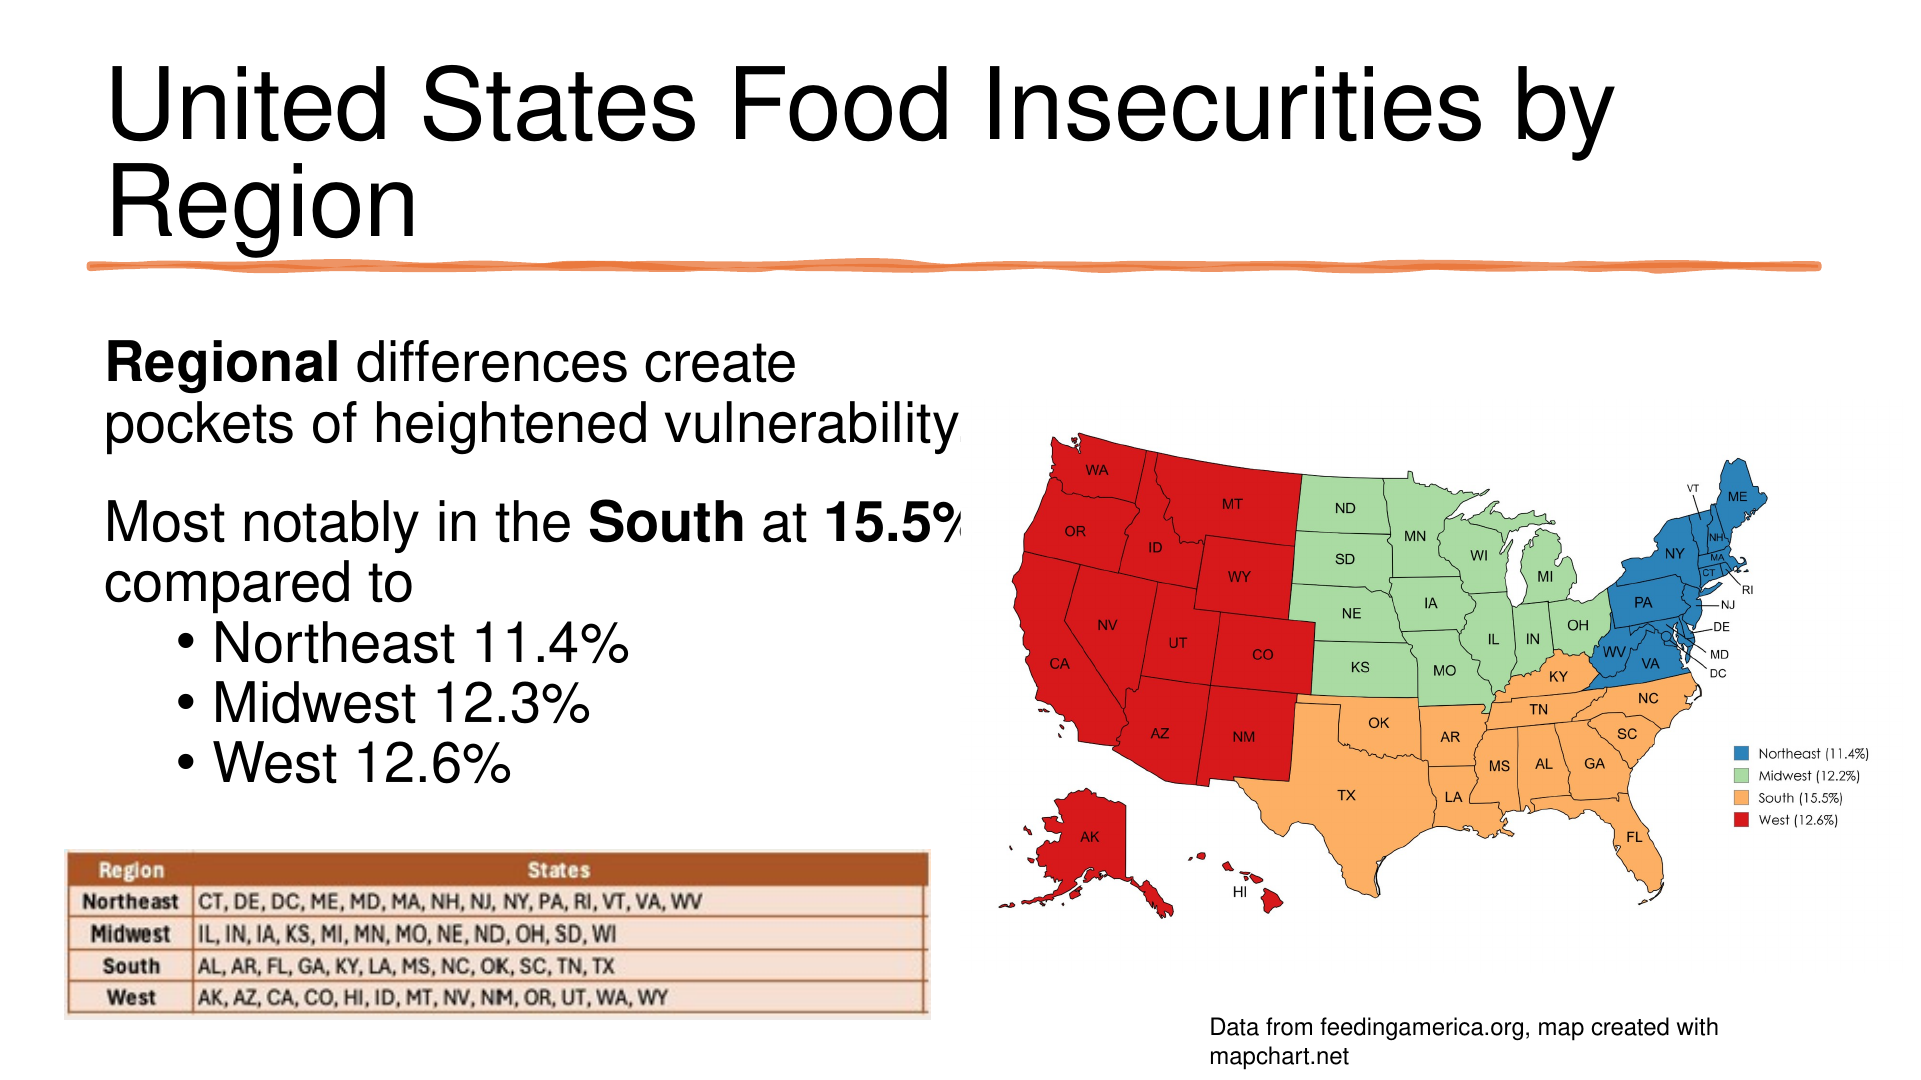
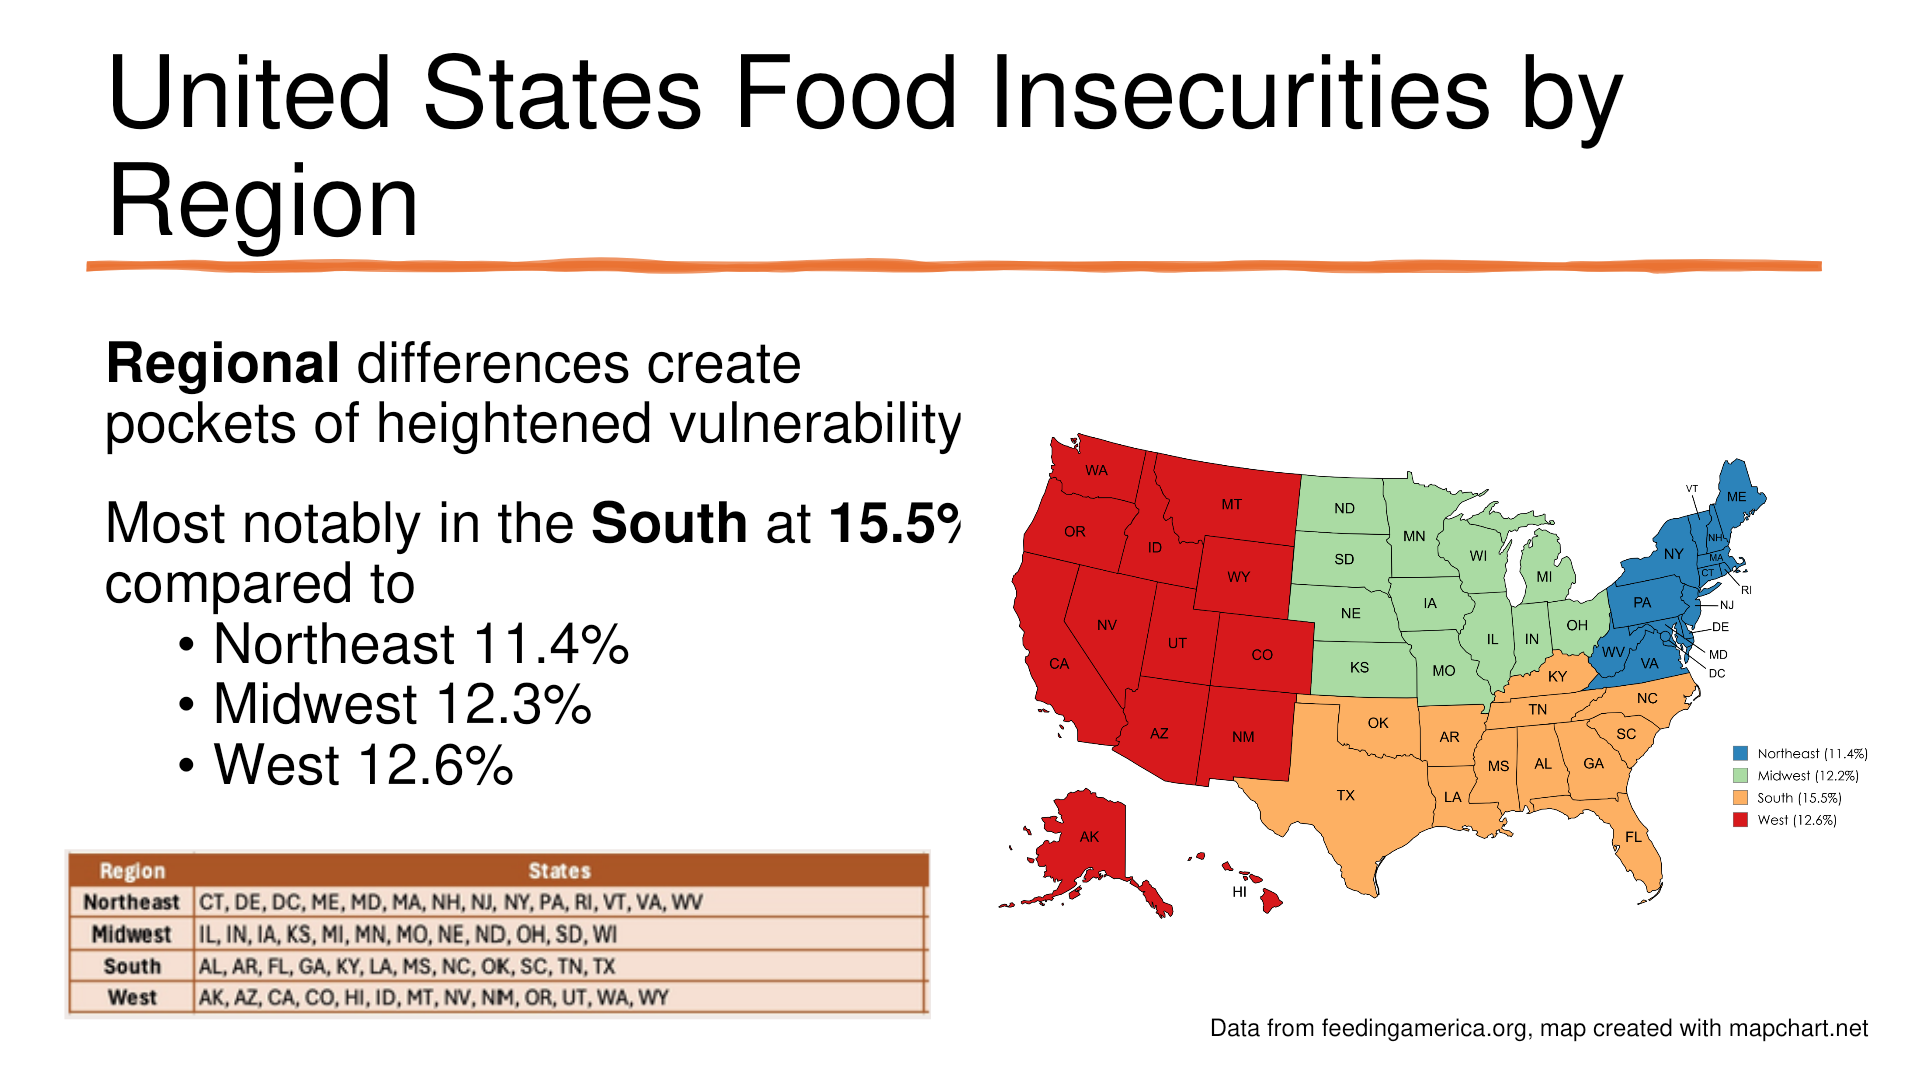
Apply final README feedback and V5 visuals

diff --git a/README.md b/README.md
@@ -1,6 +1,6 @@
 # Data For Dinner Team 2026
 
-This project is a submission of the 2026 Women in Data (WiD) What's Cooking Datathon. Data For Dinner explores food insecurity from the globe to the United States, the Southeast, and Alabama. The project connects regional food insecurity patterns with the challenges families face in obtaining affordable, nourishing food, and proposes practical actions for local communities.
+This project is a submission of the 2026 Women in Data (WiD) What's Cooking Datathon. Data For Dinner Team explores food insecurity from the globe to the United States, the Southeast, and Alabama (our home state). The project connects regional food insecurity patterns with the challenges families face in obtaining affordable, nourishing food, and proposes practical actions for local communities.
 
 <p align="center">
   <img src="assets/women-in-data-logo.png" alt="Women in Data" width="220">
@@ -9,7 +9,7 @@ This project is a submission of the 2026 Women in Data (WiD) What's Cooking Data
 **Track:** Eat  
 **Final presentation:** September 13, 2026
 
-## Project links
+## Project Links
 
 | Resource | Open |
 | --- | --- |
@@ -21,27 +21,27 @@ This project is a submission of the 2026 Women in Data (WiD) What's Cooking Data
 
 [![Data For Dinner presentation video](assets/video-poster.jpg)](https://github.com/april-gillespie/Data_For_Dinner_2026/raw/refs/heads/main/video/Data_for_Dinner_2026.mp4)
 
-## The problem
+## The Problem
 
 The United States Department of Agriculture (USDA) defines food insecurity as a household-level economic and social condition of limited or uncertain access to adequate food. Food-secure households have consistent access throughout the year to adequate food for active, healthy living for all household members. Food-insecure households lack that access at some time during the year.
 
 Food insecurity impacts families and diminishes quality of life. Families face an uneven menu of limited access, unaffordability, and undernourishment. We need community-driven solutions that deliver equitable food and nourishment for all.
 
-The stakeholders are  local communities and policy makers: families, farmers and home growers, farmers markets, fishers, and town, county, state, and federal government.
+The stakeholders are local communities and policy makers: families, farmers and home growers, farmers markets, fishers, and town, county, state, and federal government.
 
 ![United States food insecurity definition and map](assets/slide-14-us-food-insecurity.png)
 
-## How we approached it
+## How We Approached It
 
-The team used datasets from FAOSTAT and Feeding America for food security indicators for global context and Feeding America for U.S. and Alabama context. The presentation describes batch downloads, merged datasets, Excel analysis, cleanup of aggregation differences, MapChart visualizations, and a Tableau Public dashboard. Collaboration used GitHub, Google Drive, Google Meet, and Microsoft Teams.
+The team used data sets from FAOSTAT for global food security indicators and Feeding America for U.S. and Alabama context. Processing and analysis included batch downloads, merged datasets, Excel analysis, cleanup of aggregation differences, MapChart visualizations, and a Tableau Public dashboard. For team collaboration, we used GitHub, Google Drive, Google Meet, and Microsoft Teams.
 
 **Scope note:** During the project, we shifted our focus from food access to food insecurity due to local data limitations.
 
-## Key findings
+## Key Findings
 
 The figures below follow the final presentation. See the [review notes](docs/review.md#data-and-presentation-notes) for differences between the slides, workbook, and dashboard, including measure definitions and the U.S. comparison average.
 
-### Global context
+### Global Context
 
 - Globally, millions experience moderate and severe food insecurity due to poverty and various other factors.
 - The global charts compare percentages across regions; they do not establish which regions have the largest numbers of affected people.
@@ -53,36 +53,48 @@ The figures below follow the final presentation. See the [review notes](docs/rev
 ### United States
 
 - Regional differences create pockets of heightened vulnerability.
-- Slide 15 reports the South at **15.5%**, compared with the Northeast at 11.4%, the Midwest at 12.3% in the slide text, and the West at 12.6%. The Midwest map legend shows 12.2%, while the live dashboard shows 12.1%. See the [review notes](docs/review.md#data-and-presentation-notes).
+- Most notably, food insecurity in the South is **15.5%**, compared with **11.4%** in the Northeast, **12.3%** in the Midwest, and **12.6%** in the West.
 
 ![United States food insecurity by region](assets/slide-15-us-food-insecurity-by-region.png)
 
 ### Southeast
 
-- Regional differences create pockets of heightened vulnerability.
-- Slide 17 reports Southeast food insecurity at **15.8%**, compared with **12.9%** for the U.S. comparison. The workbook calculates 12.9% as an unweighted average of 50 states plus the District of Columbia, rather than a population-weighted national estimate.
+- States across the U.S. Southeast have higher food insecurity at **15.8%** than the U.S. average of **12.9%**.
+- The most affected states are Arkansas at **19.4%**, Kentucky at **18.8%**, and Louisiana, Mississippi, Texas, and Oklahoma at **17%**.
+- Multiple factors affect families:
+  - High poverty
+  - Rural geography
+  - Weaker retailer networks
+  - Transportation barriers
+  - Demographic vulnerabilities
+  - Climate variations that affect crops
+  - Policy gaps
 
-![US Southeast food insecurity](assets/slide-17-southeast-food-insecurity.png)
+![U.S. Southeast food insecurity](assets/slide-17-southeast-food-insecurity.png)
 
 ### Alabama
 
 Alabama faces significant disparities in low access and low income, with some counties experiencing extreme levels of both.
 
-The county ranking below uses the slide label **Low-Income Low-Access**. It is a different measure from a food insecurity rate.
+Poverty, rural regions, transportation gaps, and economic constraints intensify the challenge, creating a cycle that is difficult to break.
+
+![Alabama food insecurity](assets/slide-19-alabama-food-insecurity.png)
 
 ![Alabama highest counties for low income and low access](assets/slide-20-alabama-highest-counties.png)
 
-## Community solutions
+## Local Community Solutions
 
-The team proposes practical community actions that use existing infrastructure. Their costs and outcomes were not evaluated in this project:
+Communities can make rapid progress on food insecurity by focusing on practical, community-driven solutions that leverage existing infrastructure.
+
+These interventions are scalable, cost-effective, and aligned with rural and urban realities:
 
 - Support local food pantries
 - Support local shelters
-- Establish small neighborhood pantries for shelf-stable staples, similar to little libraries
+- Stock food pantries with shelf-stable staples, similar to a little library
 - Use small community buses as fresh-food pantries
 - Support local farmers and fishers
 
-## Future work
+## Future Work
 
 Food allergy impact analysis for food insecurity requires:
 
@@ -93,7 +105,7 @@ Food allergy impact analysis for food insecurity requires:
   - Access
   - Nutrition
 
-Alabama food resources to consider include:
+We identified significant food allergens specific to Alabama resources:
 
 - Seafood
   - Shellfish allergy
@@ -105,9 +117,9 @@ Alabama food resources to consider include:
   - Pecans
   - Wheat
 
-Future analysis should consider food allergy constraints and local crop availability. The project does not report a completed analysis of allergy impacts.
+Future analysis would consider food allergy constraints and local crop availability.
 
-## Key takeaways
+## Key Takeaways
 
 - Food insecurity is a multi-scale systems challenge that becomes clearer when analyzed through integrated, data-driven geospatial methods.
 - Structural instability, economic shocks, and limited food-system resilience create widespread vulnerability.
@@ -125,7 +137,7 @@ Future analysis should consider food allergy constraints and local crop availabi
 | Sandra Kopecky | [IT Specialist](https://www.linkedin.com/in/sandrakopecky) | Data Discovery; Data Analyst; Insights Manager |
 | Toni Randell | [IT Data Analyst](https://www.linkedin.com/in/tonitheanalyst) | Dashboarding; Data Analyst; Video Editor |
 
-## Sources and review
+## Sources and Review
 
 - [FAOSTAT Suite of Food Security Indicators](https://www.fao.org/faostat/en/#data/FS), cited in slides 8 and 12.
 - [Feeding America Map the Meal Gap](https://map.feedingamerica.org/), cited in the U.S. and Alabama slides.
